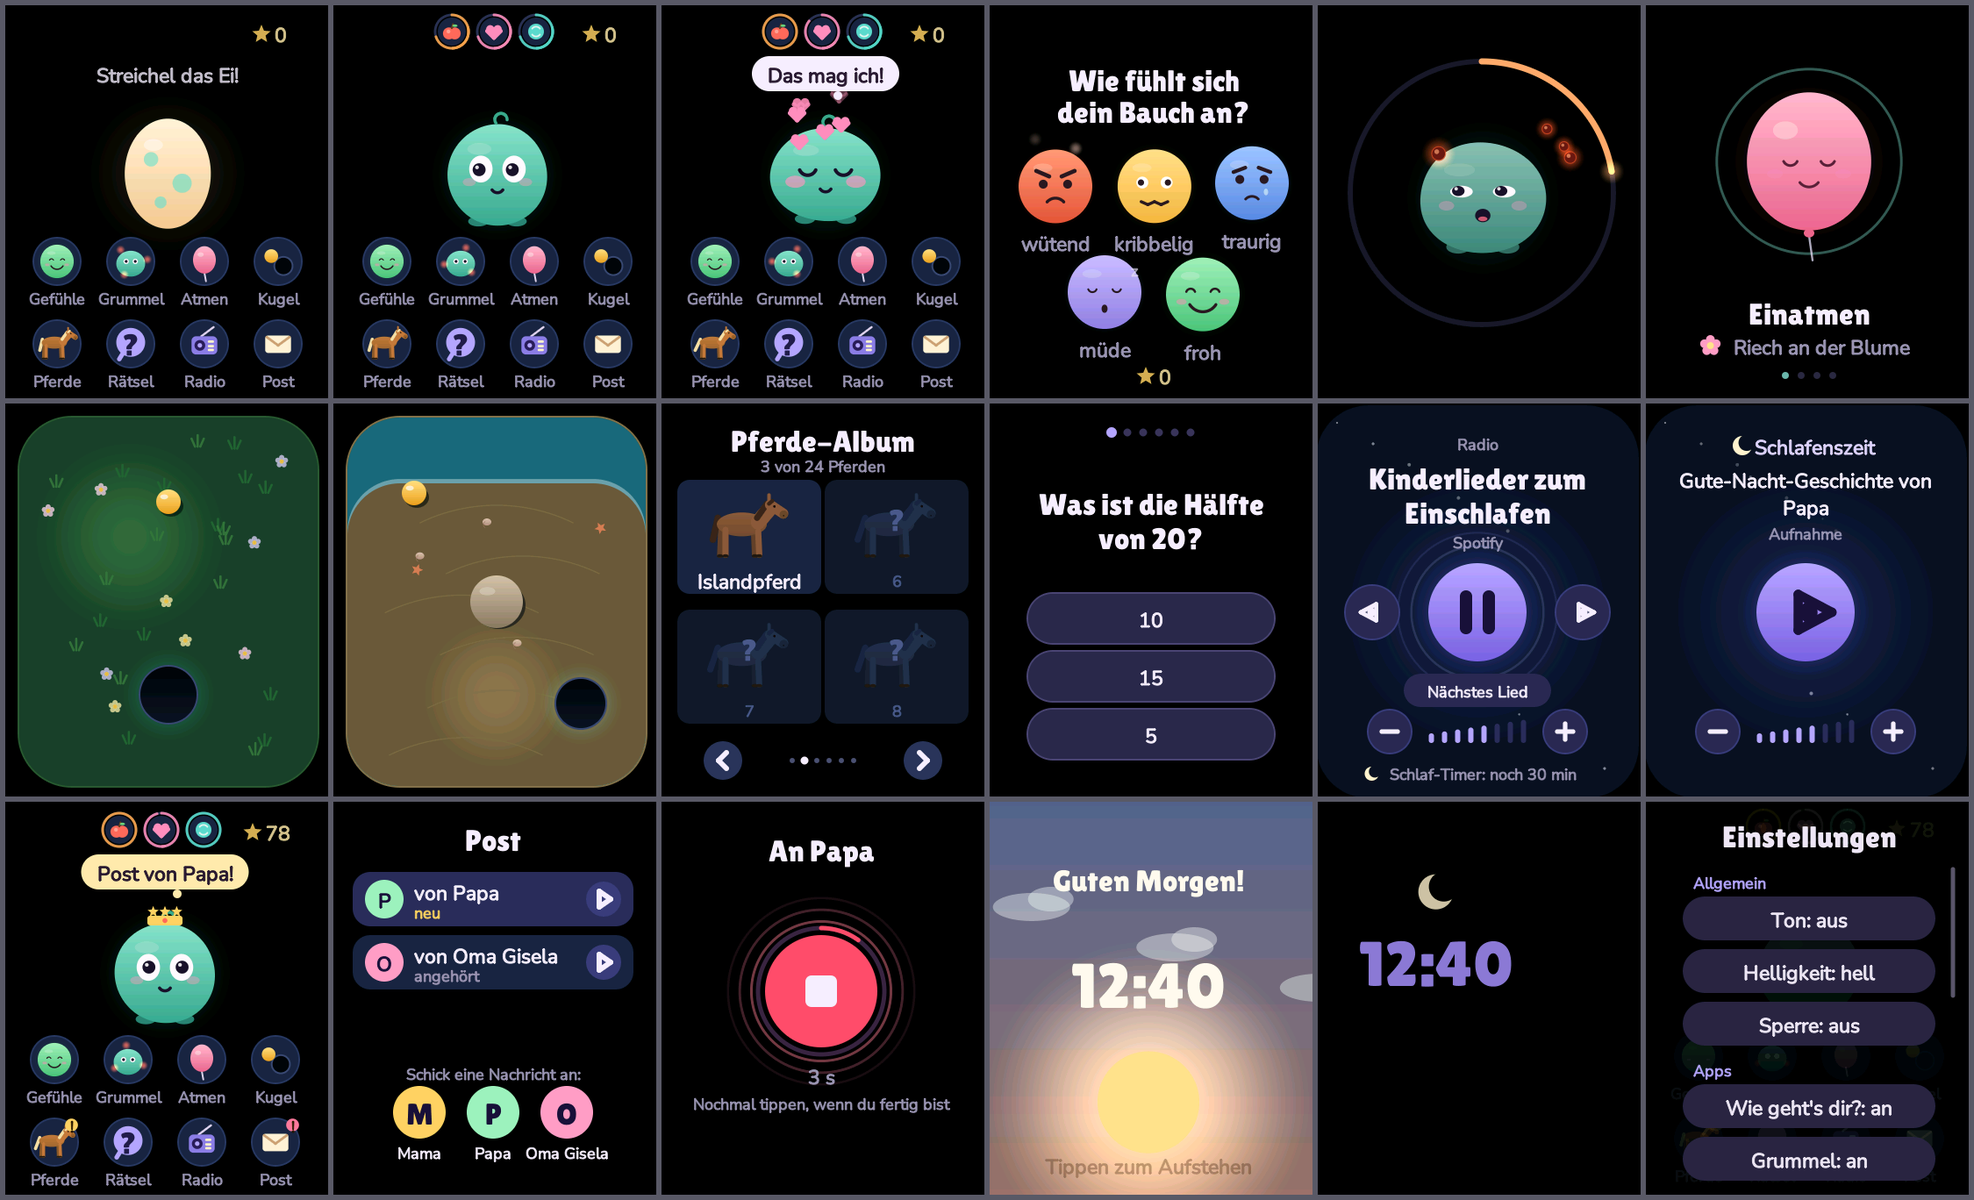
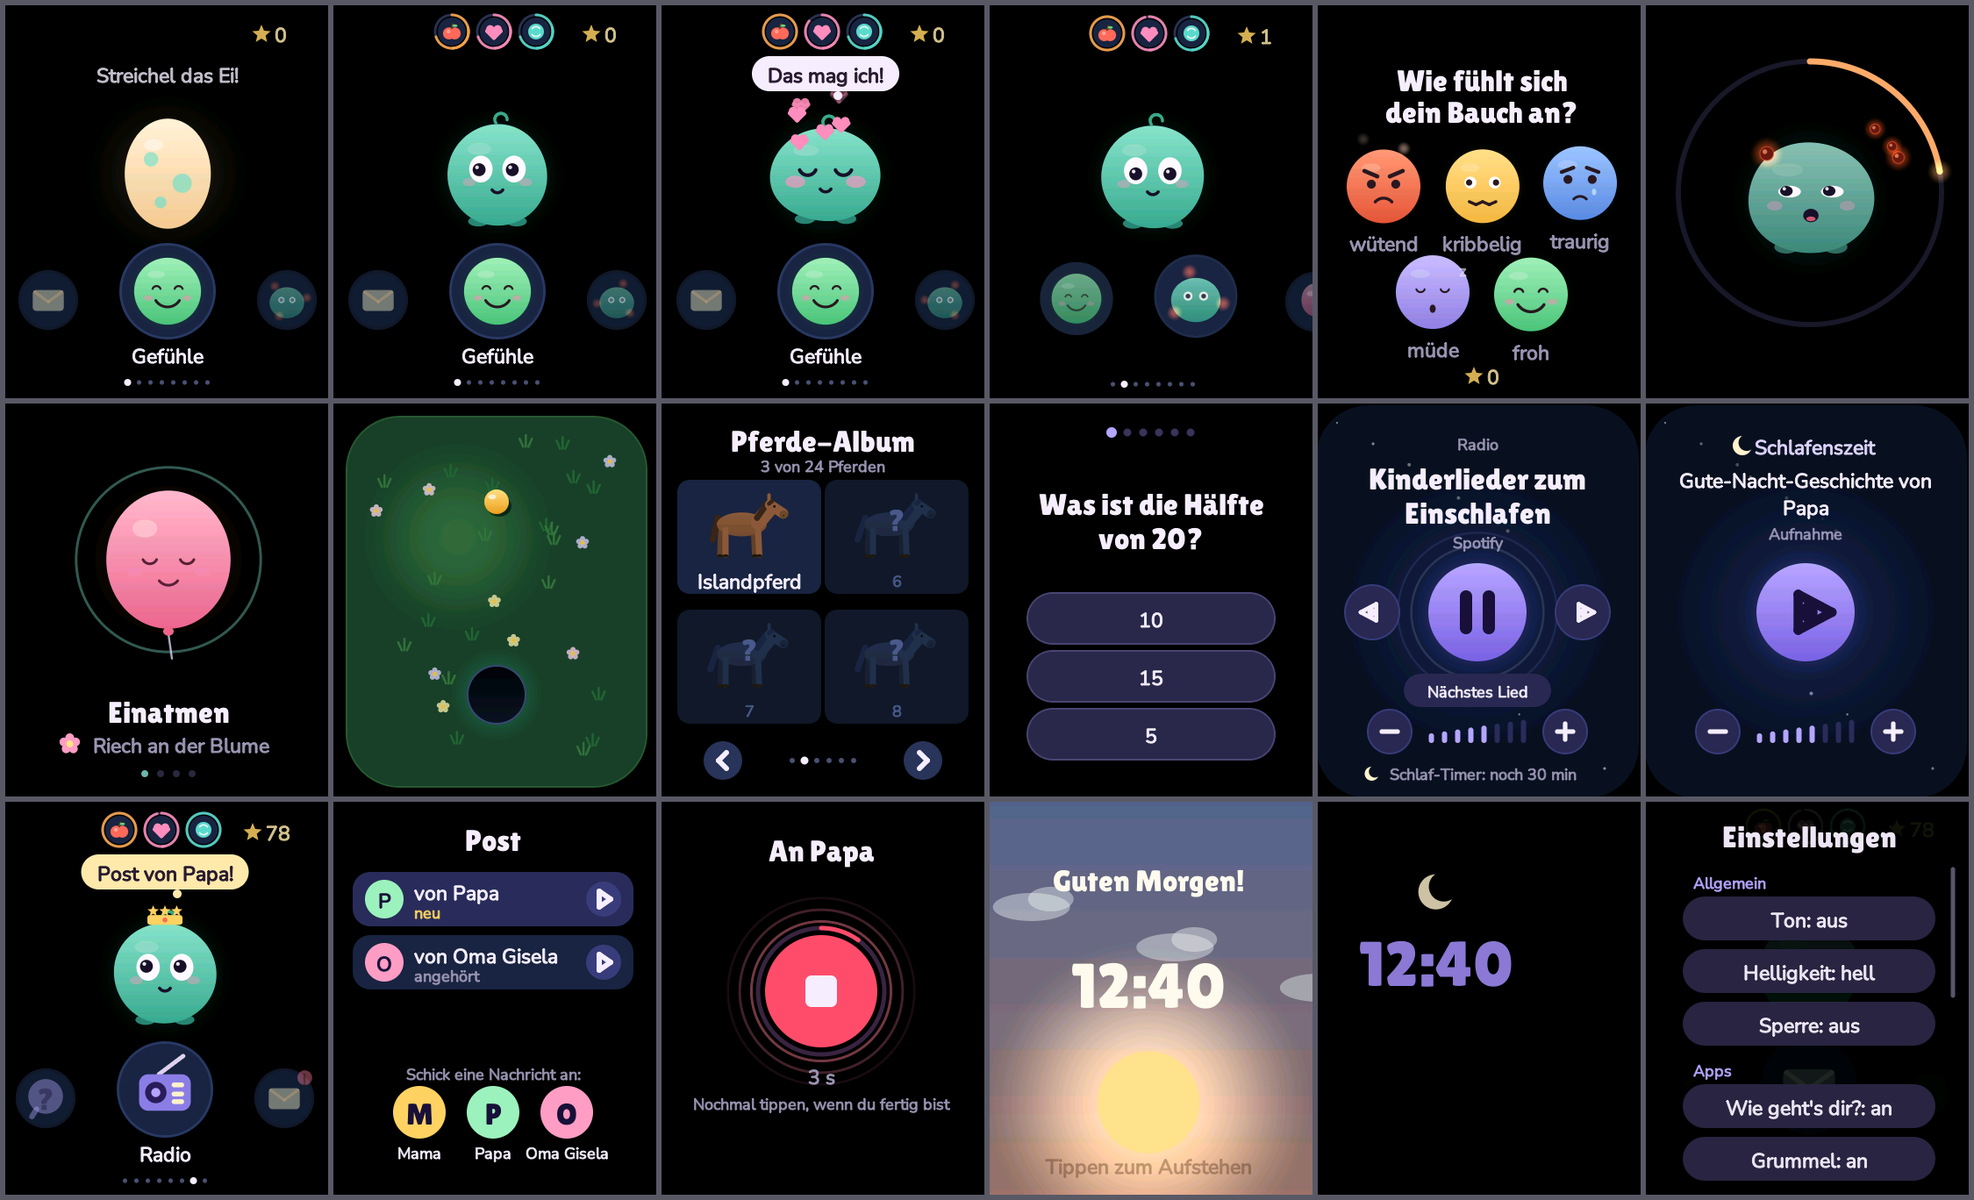
App-Karussell statt kleiner Symbole
Auf dem 1,8"-Display (≈ 29 × 35 mm) waren die App-Symbole nur gut 4 mm groß.
Jetzt steht eine App groß in der Mitte (≈ 8 mm, Tippfläche ≈ 13 × 14 mm),
die Nachbarn schauen hervor. Zur Seite wischen dreht (das Bild folgt dem
Finger), Nachbar antippen holt ihn in die Mitte, die Mitte öffnet. Das
Karussell merkt sich die letzte App.

Serielle Befehle tipp/wisch laufen jetzt über mehrere Frames wie ein Finger.

diff --git a/tiles/home.cpp b/tiles/home.cpp
@@ -12,11 +12,11 @@
 
 namespace dk {
 
-static const Col TXT = hex(0xf2eefa), TXT_DIM = hex(0x9a94b4), INK = hex(0x1c1228), EYE = hex(0xfbf8ff);
+static const Col TXT = hex(0xf2eefa), INK = hex(0x1c1228), EYE = hex(0xfbf8ff);
 static const Col BODY_TOP = hex(0x86e3c9), BODY_BOT = hex(0x3aa98f), CHEEK = hex(0xff9ec0);
 static const Col ICON_BG = hex(0x1d2540), ICON_RIM = hex(0x2e3a62), GOLD = hex(0xffd166);
 static const Col NEED_COL[Pet::N_NEEDS] = {hex(0xffa64d), hex(0xff8fb8), hex(0x5fd8c8)};
-static constexpr float ICON_R = 26, NEED_R = 15, ICON_K = ICON_R / 30;   // ICON_K: Symbole waren für Radius 30 gezeichnet
+static constexpr float NEED_R = 15;
 static constexpr float BUBBLE_Y = 58, BUBBLE_H = 40;
 
 static inline float clampf(float v, float a, float b) { return v < a ? a : v > b ? b : v; }
@@ -33,16 +33,46 @@ float Home::rnd() {
   return (seed_ & 0xFFFFFF) / float(0x1000000);
 }
 
-void Home::iconPos(int i, int n, float& x, float& y) {
-  // erste Reihe drei (bei acht Apps vier), zweite Reihe der Rest (bei vier etwas enger), jeweils mittig
-  const int first = n >= 8 ? 4 : 3;
-  const int row = i < first ? 0 : 1, inRow = row ? n - first : (n < first ? n : first), k = row ? i - first : i;
-  x = W / 2 + (k - (inRow - 1) * 0.5f) * (inRow > 3 ? 84 : 104);
-  y = row ? 386 : 292;
+static inline int wrapi(int i, int n) { return ((i % n) + n) % n; }
+
+bool Home::focusApp(int tile) {
+  for (int i = 0; i < nVis_; i++)
+    if (apps_[vis_[i]].tile == tile) { carIdx_ = i; carPos_ = float(i); carDrag_ = 0; return true; }
+  return false;
+}
+
+int Home::focusedTile() const { return nVis_ ? apps_[vis_[wrapi(carIdx_, nVis_)]].tile : -1; }
+
+void Home::carouselTick(const TileInput& in) {
+  if (!nVis_) return;
+  // Wischen im Karussell: das Bild folgt dem Finger, beim Loslassen rastet es auf die nächste App ein
+  if (in.finger && !carFinger_ && in.fingerY > CAR_TOP) { carDragging_ = true; carStartX_ = in.fingerX; }
+  if (carDragging_ && in.finger) carDrag_ = in.fingerX - carStartX_;
+  if (carDragging_ && !in.finger) {
+    const float p = carPos_ - carDrag_ / CAR_DX;   // sichtbare Stellung beim Loslassen
+    int target = int(std::floor(p + 0.5f));
+    if (std::fabs(carDrag_) > 40 && target == carIdx_) target += carDrag_ < 0 ? 1 : -1;   // kurzer Wisch reicht für eine App
+    carPos_ = p;
+    carDrag_ = 0;
+    carIdx_ = target;
+    carDragging_ = false;
+    store_.set("car_i", wrapi(carIdx_, nVis_));
+  }
+  carFinger_ = in.finger;
+  carPos_ = approach(carPos_, float(carIdx_), 10, in.dt);
+}
+
+bool Home::carouselTap(float x, float y) {
+  if (!nVis_ || y < CAR_TOP) return false;
+  if (std::fabs(x - W / 2) < 82) { requestGoto(focusedTile()); return true; }   // Mitte: öffnen
+  carIdx_ += x < W / 2 ? -1 : 1;   // Nachbar in die Mitte holen
+  store_.set("car_i", wrapi(carIdx_, nVis_));
+  return true;
 }
 
 bool Home::claimsDragAt(float x, float y) const {
-  // Streicheln beginnt auf Grummel (oder dem Ei): dort öffnet Wischen keine App
+  // Streicheln beginnt auf Grummel (oder dem Ei), im Karussell dreht Wischen die Apps: dort blättert Wischen nicht
+  if (y > CAR_TOP) return true;
   const float dx = x - BUDDY_X, dy = y - buddyY(), r = R_ * 1.5f;
   return dx * dx + dy * dy < r * r;
 }
@@ -86,6 +116,8 @@ void Home::tick(const TileInput& in) {
   clock_ += dt;
   nVis_ = 0;   // abgeschaltete Apps verschwinden vom Dashboard
   for (int i = 0; i < nApps_ && nVis_ < 8; i++) if (!(in.disabled >> apps_[i].tile & 1)) vis_[nVis_++] = i;
+  if (!started_) { started_ = true; carIdx_ = store_.get("car_i", 0); carPos_ = float(carIdx_); }
+  carouselTick(in);
   lastSeen_ = in.ms;
   epoch_ = in.epoch;
   bubbleT_ = std::fmax(0, bubbleT_ - dt);
@@ -154,18 +186,14 @@ void Home::tick(const TileInput& in) {
     sq_ = clampf(sq_ + sqv_ * dt, -0.14f, 0.14f);
     if (pet_.stage == Pet::EGG) {
       // Apps sind auch vor dem Schlüpfen erreichbar
-      if (in.tap)
-        for (int i = 0; i < nVis_; i++) {
-          float x, y;
-          iconPos(i, nVis_, x, y);
-          if ((in.tapX - x) * (in.tapX - x) + (in.tapY - y) * (in.tapY - y) < (ICON_R + 14) * (ICON_R + 14)) { pet_.warmth -= 0.08f; requestGoto(apps_[vis_[i]].tile); break; }
-        }
+      if (in.tap && carouselTap(in.tapX, in.tapY)) pet_.warmth -= 0.08f;
       return;
     }
   }
 
   // ---- Antippen ----
-  if (in.tap) {
+  if (in.tap && carouselTap(in.tapX, in.tapY)) askT_ = std::fmax(askT_, 10);
+  else if (in.tap) {
     askT_ = std::fmax(askT_, 10);
     const float bw = Scene::textW(fonts::body, bubble_) + 36;
     for (int i = 0; i < Pet::N_NEEDS; i++) {   // Bedürfnis-Symbole oben
@@ -190,12 +218,6 @@ void Home::tick(const TileInput& in) {
       sqv_ += 3;
       say(rnd() < 0.5f ? "Hihi!" : "Das kitzelt!", 1.6f);
       for (int k = 0; k < 3; k++) { Synth::Voice v; v.wave = Synth::TRI; v.f0 = v.f1 = 520.f + 130 * k; v.delay = 0.08f * k; v.dur = 0.1f; v.vol = 0.12f; synth_.play(v); }
-    } else {
-      for (int i = 0; i < nVis_; i++) {
-        float x, y;
-        iconPos(i, nVis_, x, y);
-        if ((in.tapX - x) * (in.tapX - x) + (in.tapY - y) * (in.tapY - y) < (ICON_R + 14) * (ICON_R + 14)) { requestGoto(apps_[vis_[i]].tile); break; }
-      }
     }
   }
 
@@ -414,9 +436,9 @@ void Home::drawNeeds(Scene& s) {
   }
 }
 
-void Home::drawIcon(Scene& s, const AppIcon& a, float x, float y) {
-  constexpr float K = ICON_K;
-  s.circle(x, y, ICON_R + 2, ICON_RIM);
+void Home::drawIcon(Scene& s, const AppIcon& a, float x, float y, float ICON_R, bool label) {
+  const float K = ICON_R / 30;   // Symbole sind für Radius 30 gezeichnet
+  s.circle(x, y, ICON_R + 3, ICON_RIM);
   s.circle(x, y, ICON_R, ICON_BG);
   switch (a.kind) {
     case 0: drawFace(s, CheckIn::FROH, x, y, 22 * K, clock_); break;
@@ -460,7 +482,7 @@ void Home::drawIcon(Scene& s, const AppIcon& a, float x, float y) {
       s.capsule(x + 15 * K, y - 9 * K, x, y + 2 * K, 1.6f * K, hex(0xc8a070));
       if (msgs_ && msgs_->unheard() > 0) {
         const float p = 0.8f + 0.2f * std::sin(clock_ * 4);
-        s.circle(x + ICON_R * 0.75f, y - ICON_R * 0.75f, 11 * p, hex(0xff7a9a));
+        s.circle(x + ICON_R * 0.75f, y - ICON_R * 0.75f, 13 * p * K, hex(0xff7a9a));
         s.text(fonts::small, "!", x + ICON_R * 0.75f, y - ICON_R * 0.75f - 11, hex(0x2a1a00), 1, Align::Center);
       }
       break;
@@ -475,13 +497,13 @@ void Home::drawIcon(Scene& s, const AppIcon& a, float x, float y) {
       }
       if (cardsWaiting() > 0) {   // neue Karte wartet
         const float p = 0.8f + 0.2f * std::sin(clock_ * 4);
-        s.circle(x + ICON_R * 0.75f, y - ICON_R * 0.75f, 11 * p, GOLD);
+        s.circle(x + ICON_R * 0.75f, y - ICON_R * 0.75f, 13 * p * K, GOLD);
         s.text(fonts::small, "!", x + ICON_R * 0.75f, y - ICON_R * 0.75f - 11, hex(0x2a1a00), 1, Align::Center);
       }
       break;
     }
   }
-  s.text(fonts::small, a.kind == 4 && album_ ? album_->shortName() : a.label, x, y + ICON_R + 4, TXT_DIM, 1, Align::Center);
+  if (label) s.text(fonts::body, a.kind == 4 && album_ ? album_->shortName() : a.label, x, y + ICON_R + 6, TXT, 1, Align::Center);
 }
 
 void Home::draw(Scene& s) {
@@ -500,11 +522,32 @@ void Home::draw(Scene& s) {
     s.circle(W / 2 + 14, BUBBLE_Y + BUBBLE_H + 5, 5, bg, a);
     s.text(fonts::body, bubble_, W / 2, BUBBLE_Y + (BUBBLE_H - fonts::body.lineH) / 2 + 1, hex(0x2a1a30), a, Align::Center);
   }
-  for (int i = 0; i < nVis_; i++) {
-    float x, y;
-    iconPos(i, nVis_, x, y);
-    drawIcon(s, apps_[vis_[i]], x, y);
+  drawCarousel(s);
+}
+
+void Home::drawCarousel(Scene& s) {
+  if (!nVis_) return;
+  const float p = carPos_ - carDrag_ / CAR_DX;
+  const int c = int(std::floor(p + 0.5f));
+  // nur so viele Nachbarn, dass keine App doppelt erscheint; außen zuerst, die Mitte zuletzt
+  const int kl = nVis_ >= 3 ? 1 : 0, kr = nVis_ >= 2 ? 1 : 0;
+  int order[5], n = 0;
+  for (int k = -kl - (nVis_ >= 5 ? 1 : 0); k <= kr + (nVis_ >= 5 ? 1 : 0); k++) order[n++] = k;
+  for (int i = 0; i < n; i++)   // nach Abstand sortieren
+    for (int j = i + 1; j < n; j++)
+      if (std::fabs(c + order[j] - p) > std::fabs(c + order[i] - p)) { const int t = order[i]; order[i] = order[j]; order[j] = t; }
+  const float fade0 = s.fade;
+  for (int i = 0; i < n; i++) {
+    const float rel = c + order[i] - p, f = std::fmin(1.f, std::fabs(rel));
+    if (std::fabs(rel) > 2.2f) continue;
+    const float x = W / 2 + rel * CAR_DX, r = CAR_R * (1 - 0.4f * f);
+    s.fade = fade0 * (1 - 0.55f * f) * (1 - smooth((std::fabs(rel) - 1.4f) / 0.6f));
+    drawIcon(s, apps_[vis_[wrapi(c + order[i], nVis_)]], x, CAR_Y + 10 * f, r, f < 0.35f);
   }
+  s.fade = fade0;
+  // Punkte: wo im Karussell man gerade ist
+  const int cur = wrapi(c, nVis_);
+  for (int i = 0; i < nVis_; i++) s.circle(W / 2 + (i - (nVis_ - 1) * 0.5f) * 13, H - 18, i == cur ? 4.f : 2.6f, i == cur ? TXT : hex(0x4a5070));
 }
 
 }  // namespace dk

diff --git a/sim/main.cpp b/sim/main.cpp
@@ -291,7 +291,8 @@ static int screens(const char* dir) {
     for (auto& i : gIssues) { printf("  %s: %s\n", name, i.c_str()); nIssues++; }
   };
   auto tapFace = [&](int i) { float x, y; CheckIn::faceCenter(i, x, y); sc.tap(int(x), int(y)); };
-  auto tapIcon = [&](int i) { float x, y; Home::iconPos(i, N_APPS, x, y); sc.tap(int(x), int(y)); };
+  // App über das Karussell öffnen: in die Mitte holen, dann antippen
+  auto tapIcon = [&](int i) { kids.home.focusApp(APPS[i].tile); sc.run(0.1f); sc.tap(int(W / 2), int(Home::CAR_Y)); };
   // Wischen in 8 Schritten; mid: Bildname für ein Bild mitten im Wisch
   auto swipe = [&](int x0, int y0, int x1, int y1, const char* mid = nullptr) {
     sc.touch(true, x0, y0); sc.frame();
@@ -343,9 +344,17 @@ static int screens(const char* dir) {
   tapIcon(2); sc.run(4.0f); shot("15_atmen");
   close(); shot("16_dashboard_nach_x");
   // Wischen: nach oben blättert durch die Apps, zur Seite schließt
-  swipe(300, 400, 300, 250, "16a_wisch_hoch"); shot("16b_gefuehle");
+  // Karussell: zur Seite wischen dreht, die Mitte öffnet
+  kids.home.focusApp(T_CHECKIN); sc.run(0.3f); shot("16_karussell");
+  swipe(260, 330, 120, 330, "16_karussell_wisch"); sc.run(0.5f);
+  if (kids.home.focusedTile() != T_GRUMMEL) printf("  FEHLER: Karussell dreht nicht (Mitte %d)\n", kids.home.focusedTile()), nIssues++;
+  sc.tap(int(W - 40), int(Home::CAR_Y)); sc.run(0.5f);
+  if (kids.home.focusedTile() != T_BREATHE) printf("  FEHLER: Nachbar antippen holt ihn nicht in die Mitte (%d)\n", kids.home.focusedTile()), nIssues++;
+  if (app.current() != T_HOME) printf("  FEHLER: Karussell öffnet beim Drehen eine App (%d)\n", app.current()), nIssues++;
+  kids.home.focusApp(T_CHECKIN); sc.run(0.3f);
+  swipe(334, 250, 334, 100, "16a_wisch_hoch"); shot("16b_gefuehle");
   if (app.current() != T_CHECKIN) printf("  FEHLER: Wisch hoch auf dem Dashboard öffnet nicht Gefühle (%d)\n", app.current()), nIssues++;
-  swipe(300, 400, 300, 250); if (app.current() != T_GRUMMEL) printf("  FEHLER: Wisch hoch → Grummel (%d)\n", app.current()), nIssues++;
+  swipe(334, 250, 334, 100); if (app.current() != T_GRUMMEL) printf("  FEHLER: Wisch hoch → Grummel (%d)\n", app.current()), nIssues++;
   swipe(300, 250, 300, 400); if (app.current() != T_CHECKIN) printf("  FEHLER: Wisch runter → Gefühle (%d)\n", app.current()), nIssues++;
   swipe(300, 250, 300, 400); if (app.current() != T_HOME) printf("  FEHLER: Wisch runter → Dashboard (%d)\n", app.current()), nIssues++;
   tapIcon(5); sc.run(0.6f); swipe(300, 150, 300, 300); if (app.current() != T_ALBUM) printf("  FEHLER: Rätsel, Wisch runter → Album (%d)\n", app.current()), nIssues++;
@@ -419,7 +428,7 @@ static int screens(const char* dir) {
   { PortalSync ps; ps.frame(app, gRadio, "x", 0, sc.ms); }
   sc.run(1.0f); shot("31_sperre_radio");
   if (app.current() != T_RADIO) printf("  FEHLER: Sperre zeigt nicht das Radio (%d)\n", app.current()), nIssues++;
-  swipe(4, 250, 220, 250); swipe(300, 400, 300, 250);
+  swipe(4, 250, 220, 250); swipe(334, 250, 334, 100);
   if (app.current() != T_RADIO) printf("  FEHLER: Sperre lässt sich wegwischen (%d)\n", app.current()), nIssues++;
   sc.touch(true, 30, 230); sc.run(3.4f); if (app.settingsOpen()) printf("  FEHLER: Sperre: Einstellungen schon nach 3 s\n"), nIssues++;
   sc.run(5.0f); sc.touch(false, 30, 230); sc.frame(); sc.run(0.5f); shot("32_sperre_einstellungen");
@@ -439,7 +448,7 @@ static int screens(const char* dir) {
     app.setDisabled(1u << T_BALANCE);
     app.show(T_HOME); sc.run(0.6f); shot("33_dashboard_dinos_ohne_kugel");
     if (kids.album.pending() != 1) printf("  FEHLER: nach 3 Sternen keine Dino-Karte\n"), nIssues++;
-    for (int k = 0; k < 4; k++) swipe(300, 400, 300, 250);   // Gefühle, Grummel, Atmen, (Kugel ist aus) Album
+    for (int k = 0; k < 4; k++) swipe(334, 250, 334, 100);   // Gefühle, Grummel, Atmen, (Kugel ist aus) Album
     if (app.current() != T_ALBUM) printf("  FEHLER: Wischen überspringt abgeschaltete App nicht (%d)\n", app.current()), nIssues++;
     app.show(T_ALBUM); sc.run(0.6f); sc.tap(184, 214); sc.run(1.2f); shot("34_dino_vorne");
     sc.tap(184, 214); sc.run(0.6f); shot("35_dino_hinten");

diff --git a/firmware/main.cpp b/firmware/main.cpp
@@ -214,7 +214,10 @@ static void loadPack() {
 static portMUX_TYPE inMux = portMUX_INITIALIZER_UNLOCKED;
 static TouchSample touchQ[32];
 static volatile bool touchLog = false;
-static int fakeBoot = 0;   // serieller Befehl „boot“: Taste für ein paar Frames gedrückt   // „beruehrung“: Aufsetzen und Loslassen mit Position ausgeben
+static int fakeBoot = 0;   // serieller Befehl „boot“: Taste für ein paar Frames gedrückt
+// künstliche Berührungen (tipp, wisch): erst zu ihrer Zeit in die Eingabe, damit sie über mehrere Frames laufen wie ein Finger
+static TouchSample fakeTouch[24];
+static int fakeTouchN = 0;   // „beruehrung“: Aufsetzen und Loslassen mit Position ausgeben
 static int touchN = 0;
 static AccelSample accQ[128];
 static int accHead = 0, accCount = 0;
@@ -435,12 +438,10 @@ static void pollSerial() {
       }
     } else if (!strncmp(line, "wisch ", 6)) {   // künstlicher Wisch in 8 Schritten über 160 ms: wisch X0 Y0 X1 Y1
       int x0, y0, x1, y1;
-      if (sscanf(line + 6, "%d %d %d %d", &x0, &y0, &x1, &y1) == 4) {
-        portENTER_CRITICAL(&inMux);
+      if (sscanf(line + 6, "%d %d %d %d", &x0, &y0, &x1, &y1) == 4 && fakeTouchN == 0) {
         const uint32_t t0 = millis();
-        for (int k = 0; k <= 8 && touchN < 31; k++) touchQ[touchN++] = {true, int16_t(x0 + (x1 - x0) * k / 8), int16_t(y0 + (y1 - y0) * k / 8), t0 + 20u * k};
-        touchQ[touchN++] = {false, int16_t(x1), int16_t(y1), t0 + 180};
-        portEXIT_CRITICAL(&inMux);
+        for (int k = 0; k <= 8; k++) fakeTouch[fakeTouchN++] = {true, int16_t(x0 + (x1 - x0) * k / 8), int16_t(y0 + (y1 - y0) * k / 8), t0 + 33u * k};
+        fakeTouch[fakeTouchN++] = {false, int16_t(x1), int16_t(y1), t0 + 33u * 9};
       }
     } else if (!strcmp(line, "boot")) {   // BOOT-Taste drücken (Einstellungen auf/zu)
       fakeBoot = 3;
@@ -599,6 +600,14 @@ void loop() {
 
   pollSerial();
   uint32_t t0 = micros();
+  {   // fällige künstliche Berührungen einreihen
+    const uint32_t now = millis();
+    int k = 0;
+    portENTER_CRITICAL(&inMux);
+    while (k < fakeTouchN && fakeTouch[k].ms <= now && touchN < 32) touchQ[touchN++] = fakeTouch[k++];
+    portEXIT_CRITICAL(&inMux);
+    if (k) { memmove(fakeTouch, fakeTouch + k, sizeof(TouchSample) * (fakeTouchN - k)); fakeTouchN -= k; }
+  }
   portENTER_CRITICAL(&inMux);
   in.nTouch = touchN;
   memcpy(in.touch, touchQ, sizeof(TouchSample) * touchN);

diff --git a/tiles/home.h b/tiles/home.h
@@ -28,7 +28,11 @@ class Home : public Tile {
   bool wantsMotion() const override { return true; }
   bool claimsDrag() const override { return onBuddy_; }   // Streicheln öffnet keine Einstellungen
 
-  static void iconPos(int i, int n, float& x, float& y);
+  // Karussell unter Grummel: eine App groß in der Mitte (Tippfläche ≈ 13 × 12 mm), Nachbarn links und rechts.
+  // Zur Seite wischen dreht, Tippen auf die Mitte öffnet, Tippen auf einen Nachbarn holt ihn in die Mitte.
+  static constexpr float CAR_Y = 326, CAR_R = 52, CAR_DX = 136, CAR_TOP = 262;
+  bool focusApp(int tile);   // App sofort in die Mitte (Simulator)
+  int focusedTile() const;
   static void needPos(int i, float& x, float& y);
   static constexpr float BUDDY_X = W / 2, BUDDY_Y = 176, BUDDY_MAX = 80;   // Mitte bei voller Größe; kleiner steht er auf derselben Linie
   bool claimsDragAt(float x, float y) const override;
@@ -42,7 +46,10 @@ class Home : public Tile {
   void drawBuddy(Scene& s);
   void drawEgg(Scene& s);
   void drawNeeds(Scene& s);
-  void drawIcon(Scene& s, const AppIcon& a, float x, float y);
+  void drawIcon(Scene& s, const AppIcon& a, float x, float y, float r, bool label);
+  void drawCarousel(Scene& s);
+  bool carouselTap(float x, float y);
+  void carouselTick(const TileInput& in);
   int cardsWaiting() const;
   float rnd();
 
@@ -55,6 +62,9 @@ class Home : public Tile {
   float postAskT_ = 0;
   int nApps_ = 0, checkin_ = -1;
   int vis_[8] = {}, nVis_ = 0;   // sichtbare Apps (nicht abgeschaltet)
+  int carIdx_ = 0;               // Ziel: Index in vis_ (ohne Begrenzung, wird umgebrochen)
+  float carPos_ = 0, carDrag_ = 0, carStartX_ = 0;
+  bool carDragging_ = false, carFinger_ = false, started_ = false;
   uint32_t seed_ = 0x9e3779b9;
   float clock_ = 0, askT_ = 4, saveT_ = 30;
   uint32_t lastSeen_ = 0;   // ms, zuletzt auf dem Dashboard (Begrüßung nur nach längerer Pause)

diff --git a/README.md b/README.md
@@ -23,7 +23,7 @@ Das Gerät startet schwarz, ein Tipp weckt es. Startseite ist das **Dashboard**.
 
 Regeln für das Haustier: Grummel stirbt nie, wird nie krank und macht keine Vorwürfe. Leere Bedürfnisse heißen nur, dass er freundlich um etwas bittet.
 
-Unter Grummel liegen die App-Symbole. Jede App öffnet bildschirmfüllend. Wischen nach oben oder unten blättert von App zu App, Wischen zur Seite schließt sie. Ein Abzeichen am Pferde-Symbol zeigt, dass eine neue Karte wartet.
+Unter Grummel liegt ein **App-Karussell**: eine App groß in der Mitte, links und rechts schauen die Nachbarn hervor. Das Display misst nur etwa 29 × 35 mm, ein Raster mit vielen kleinen Symbolen wäre für Kinderfinger zu klein (4 mm). Die Mitte ist etwa 8 mm groß, ihre Tippfläche etwa 13 × 14 mm. Zur Seite wischen dreht das Karussell, Tippen auf einen Nachbarn holt ihn in die Mitte, Tippen auf die Mitte öffnet die App. Das Karussell merkt sich die zuletzt gewählte App. Jede App öffnet bildschirmfüllend, Wischen nach oben oder unten blättert von App zu App, Wischen zur Seite schließt sie. Abzeichen zeigen eine neue Karte oder neue Post.
 
 | App | Was passiert |
 |---|---|
@@ -49,7 +49,8 @@ Sterne gibt es fürs Benutzen der Werkzeuge, nicht fürs „Bravsein“. Gestalt
 | Geste | Wirkung |
 |---|---|
 | Tippen, wenn das Display schwarz ist | aufwecken (das Gerät startet schwarz und geht nach 3 min Ruhe wieder aus) |
-| App-Symbol antippen | App öffnen |
+| im Karussell zur Seite wischen oder Nachbarn antippen | nächste App in die Mitte holen |
+| Mitte des Karussells antippen | App öffnen |
 | nach oben wischen | nächste App (vom Dashboard aus: die erste) |
 | nach unten wischen | vorige App, vor der ersten kommt das Dashboard |
 | nach links oder rechts wischen | App schließen, zurück zum Dashboard |
